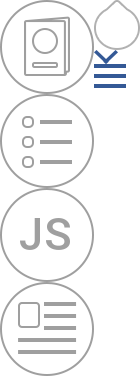
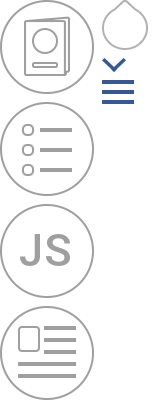
- исправлена ошибка с валидацией option; - исправлена опечатка "иСпользую Git"; - добавлена кнопка "Назад" другого стиля; - увеличино расстояние между иконками в спрайте, чтобы убрать баги при масштабировании; - для удобства пользователя добавлен :focus на первое текстовое поле (при его наличии) на 

Changed region(s): [[0.0, 0.0, 1.0, 1.0], [0.6286, 0.3218, 0.6571, 0.3511]]

diff --git a/css/main.css b/css/main.css
@@ -70,25 +70,25 @@ table {
 /* Fonts */
 
 @font-face {
-	font-family: 'Roboto';
-	font-style: normal;
-	font-weight: 100;
-	src: url('../fonts/roboto-thin.eot');
-	src: local('Roboto Thin'), local('Roboto-Thin'), url('../fonts/roboto-thin.ttf') format('truetype'), url('../fonts/roboto-thin.otf') format('opentype'), url('../fonts/roboto-thin.woff') format('woff'), url('../fonts/roboto-thin.svg') format('svg');
+    font-family: 'Roboto';
+    font-style: normal;
+    font-weight: 100;
+    src: url('../fonts/roboto-thin.eot');
+    src: local('Roboto Thin'), local('Roboto-Thin'), url('../fonts/roboto-thin.ttf') format('truetype'), url('../fonts/roboto-thin.otf') format('opentype'), url('../fonts/roboto-thin.woff') format('woff'), url('../fonts/roboto-thin.svg') format('svg');
 }
 @font-face {
-	font-family: 'Roboto';
-	font-style: normal;
-	font-weight: 300;
-	src: url('../fonts/roboto-light.eot');
-	src: local('Roboto Light'), local('Roboto-Light'), url('../fonts/roboto-light.ttf') format('truetype'), url('../fonts/roboto-light.otf') format('opentype'), url('../fonts/roboto-light.woff') format('woff'), url('../fonts/roboto-light.svg') format('svg');
+    font-family: 'Roboto';
+    font-style: normal;
+    font-weight: 300;
+    src: url('../fonts/roboto-light.eot');
+    src: local('Roboto Light'), local('Roboto-Light'), url('../fonts/roboto-light.ttf') format('truetype'), url('../fonts/roboto-light.otf') format('opentype'), url('../fonts/roboto-light.woff') format('woff'), url('../fonts/roboto-light.svg') format('svg');
 }
 @font-face {
-	font-family: 'Roboto';
-	font-style: normal;
-	font-weight: 400;
-	src: url('../fonts/roboto-regular.eot');
-	src: local('Roboto'), local('Roboto-Regular'), url('../fonts/roboto-regular.ttf') format('truetype'), url('../fonts/roboto-regular.otf') format('opentype'), url('../fonts/roboto-regular.woff') format('woff'), url('../fonts/roboto-regular.svg') format('svg');
+    font-family: 'Roboto';
+    font-style: normal;
+    font-weight: 400;
+    src: url('../fonts/roboto-regular.eot');
+    src: local('Roboto'), local('Roboto-Regular'), url('../fonts/roboto-regular.ttf') format('truetype'), url('../fonts/roboto-regular.otf') format('opentype'), url('../fonts/roboto-regular.woff') format('woff'), url('../fonts/roboto-regular.svg') format('svg');
 }
 
 /* Fonts end */
@@ -141,15 +141,15 @@ label.checkbox .jcf-checkbox.jcf-checked {
     background-color: #435993;
 }
 .jcf-checkbox span{
-    position:absolute;
-    display:none;
-    height:8px;
-    width:12px;
-    top:6px;
-    left:3px;
-    background-size: 70px;
-    background-position: -117px -44px;
-    background-image: url("../img/icons.png");
+    position: absolute;
+    display: none;
+    height: 12px;
+    width: 16px;
+    top: 4px;
+    left: 1px;
+    background-size: 78px;
+    background-position: -127px -55px;
+    background-image: url("../img/icons.png?v=1");
 }
 .jcf-checkbox input[type=checkbox]{
     position:absolute;
@@ -314,16 +314,16 @@ label.checkbox .jcf-checkbox.jcf-checked {
     text-align: center;
 }
 .jcf-select .jcf-select-opener {
-    position:absolute;
-    text-align:center;
-    background-image: url("../img/icons.png");
-    background-size: 70px;
-    background-position: -47px -25px;
+    position: absolute;
+    text-align: center;
+    background-image: url("../img/icons.png?v=1");
+    background-size: 78px;
+    background-position: -49px -27px;
     background-repeat: no-repeat;
-    width: 12px;
-    height: 7px;
-    right:19px;
-    top:25px;
+    width: 16px;
+    height: 11px;
+    right: 19px;
+    top: 25px;
     transition-duration: 0.3s;
 }
 label.focus .jcf-select-opener {
@@ -583,10 +583,12 @@ body>.jcf-select-drop.jcf-drop-flipped{
     height: 0px;
     margin-bottom: -12px;
     margin-left: 0px;
-    left: -27px;
+    left: -29px;
     border-top: 1px solid transparent;
-    border-bottom: 24px solid transparent;
-    background-position: -58px -1px;
+    border-bottom: 28px solid transparent;
+    background-position: -63px 1px;
+    border-left-width: 14px;
+    border-right-width: 13px;
 }
 .jcf-range .jcf-range-display-wrapper{
     position:absolute;
@@ -670,17 +672,17 @@ body>.jcf-select-drop.jcf-drop-flipped{
 }
 .jcf-range .jcf-range-handle{
     position: absolute;
-    background-image: url("../img/icons.png");
-    background-size: 70px;
-    background-position: -58px 1px;
+    background-image: url("../img/icons.png?v=1");
+    background-size: 78px;
+    background-position: -62px 3px;
     width: 0px;
-    height: 26px;
+    height: 30px;
     margin-left: -11px;
     z-index: 1;
-    bottom: -30px;
+    bottom: -32px;
     cursor: pointer;
-    border-left: 11px solid transparent;
-    border-right: 12px solid transparent;
+    border-left: 13px solid transparent;
+    border-right: 14px solid transparent;
 }
 .jcf-range .jcf-range-mark{
     position: absolute;
@@ -893,10 +895,10 @@ h1 {
 .slide::before {
     content: " ";
     display: block;
-    width: 47px;
-    height: 47px;
-    background-size: 70px;
-    background-image: url("../img/icons.png");
+    width: 51px;
+    height: 51px;
+    background-size: 78px;
+    background-image: url("../img/icons.png?v=1");
     background-repeat: no-repeat;
     position: absolute;
     top: 56px;
@@ -905,19 +907,19 @@ h1 {
 }
 
 .slide.slide-1::before {
-    background-position: 0 0;
+    background-position: 2px 2px;
 }
 
 .slide.slide-2::before {
-    background-position: 0 -47px;
+    background-position: 2px -49px;
 }
 
 .slide.slide-3::before {
-    background-position: 0 -94px;
+    background-position: 2px -100px;
 }
 
 .slide.slide-4::before {
-    background-position: 0 -141px;
+    background-position: 2px -151px;
 }
 
 h2 {
@@ -1017,7 +1019,7 @@ input.button {
     background-color: #435993;
     color: #fff;
     line-height: 50px;
-    margin: 45px 0 74px;
+    margin: 45px 3px 74px;
     transition-duration: 0.15s;
     padding: 0 33px;
     border-radius: 10px;
@@ -1025,6 +1027,20 @@ input.button {
 
 .button:hover {
     background-color: #4f69ad;
+}
+
+.button.button-secondary {
+    background-color: #fff;
+    color: #435993;
+    border: 1px solid #435993;
+    line-height: 48px;
+    padding: 0 32px;
+}
+
+.button.button-secondary:hover {
+    background-color: #fff;
+    color: #1c1c1c;
+    border: 1px solid #1c1c1c;
 }
 
 .bar-text {
@@ -1107,14 +1123,14 @@ textarea:-moz-placeholder { /* Firefox 18- */
 
     header .menu-button {
         display: block;
-        width: 16px;
-        height: 12px;
+        width: 20px;
+        height: 16px;
         position: absolute;
-        top: 13px;
-        right: 13px;
-        background-size: 70px;
-        background-image: url("../img/icons.png");
-        background-position: -47px -32px;
+        top: 11px;
+        right: 11px;
+        background-size: 78px;
+        background-image: url("../img/icons.png?v=1");
+        background-position: -49px -38px;
     }
 
     .slides-wrapper {

diff --git a/index.html b/index.html
@@ -1,11 +1,10 @@
 <!DOCTYPE html>
-
 <html lang="ru">
     <head>
         <meta http-equiv="Content-Type" content="text/html;charset=UTF-8">
         <title>Анкета Романа Камлюка</title>
         <meta name="viewport" content="width=device-width, initial-scale=1">
-        <link rel="stylesheet" href="css/main.css?v=1">
+        <link rel="stylesheet" href="css/main.css?v=3">
     </head>
     <body>
         <header>
@@ -36,7 +35,7 @@
                             --><div class="offset-6 col-10">
                                 <label class="select">
                                     <select name="birth_year">
-                                        <option></option>
+                                        <option value="">&nbsp;</option>
                                         <option value="1970">1970</option>
                                         <option value="1971">1971</option>
                                         <option value="1972">1972</option>
@@ -139,11 +138,12 @@
                                         </label>
                                         <label class="checkbox">
                                             <input type="checkbox" value="Ипользую Git" name="experience[]" checked><!--
-                                            --><span class="label">Ипользую Git</span>
+                                            --><span class="label">Использую Git</span>
                                         </label>
                                     </div>
                                     <div class="text-center">
-                                        <a class="button slide-next">Далее</a>
+                                        <a class="button button-secondary slide-prev">Назад</a><!--
+                                        --><a class="button slide-next">Далее</a>
                                     </div>
                                 </div>
                             </div>
@@ -168,7 +168,8 @@
                                 </div>
                             </div>
                             <div class="text-center">
-                                <a class="button slide-next">Далее</a>
+                                <a class="button button-secondary slide-prev">Назад</a><!--
+                                --><a class="button slide-next">Далее</a>
                             </div>
                         </div><!--
                         --><div class="slide slide-4">
@@ -183,7 +184,8 @@
                                 </label>
                             </div>
                             <div class="text-center">
-                                <input type="submit" class="button" value="Готово">
+                                <a class="button button-secondary slide-prev ">Назад</a><!--
+                                --><input type="submit" class="button " value="Готово">
                             </div>
                         </div>
                     </form>
@@ -193,6 +195,6 @@
         <script src="js/jquery-3.2.1.min.js"></script>
         <script src="js/jcf.js"></script>
         <script src="js/touch-swipe-1.6.18.js"></script>
-        <script src="js/main.js?v=2"></script>
+        <script src="js/main.js?v=3"></script>
     </body>
 </html>

diff --git a/js/main.js b/js/main.js
@@ -80,10 +80,17 @@ $(document).ready(function () {
         sliderNav.eq(slideIndex).addClass('active');
 
         $(':focus').blur();
+        $(slider).one('transitionend webkitTransitionEnd oTransitionEnd MSTransitionEnd', function (e) {
+            slider.find('.slide:eq(' + slideIndex + ')').find('input[type=text], textarea').eq(0).focus();
+        });
     }
 
     $('.slide-next').click(function () {
         moveSlideTo(slider.find('.slide.active').index() + 1);
+    });
+
+    $('.slide-prev').click(function () {
+        moveSlideTo(slider.find('.slide.active').index() - 1);
     });
 
     sliderNav.click(function () {
@@ -91,7 +98,7 @@ $(document).ready(function () {
     });
 
     slider.swipe({
-        tap: function(event) {
+        tap: function (event) {
             $(':focus').blur();
         },
         swipe: function (event, direction) {
